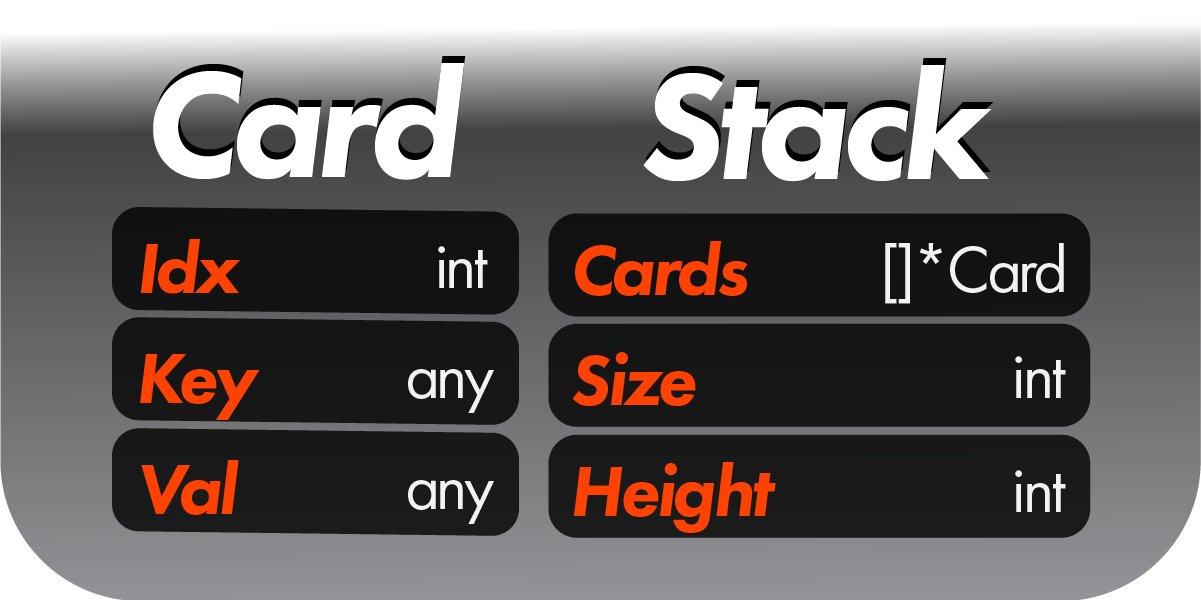
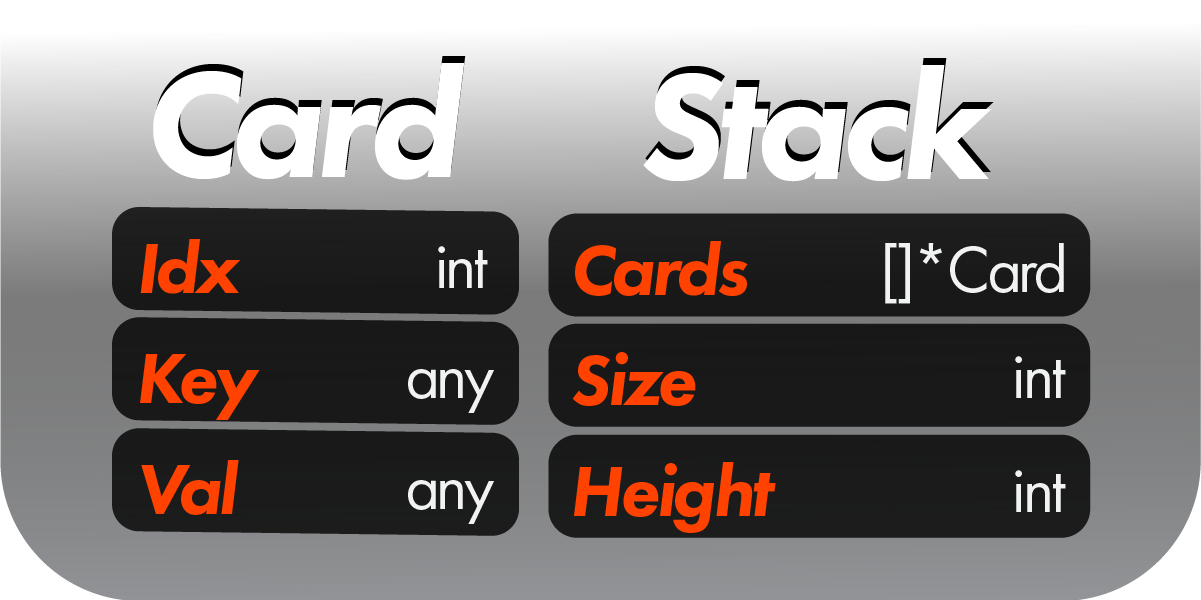
Updated images

Changed region(s): [[0.0, 0.06, 1.0, 0.57]]

diff --git a/README.md b/README.md
@@ -1,6 +1,6 @@
 v1.0.0 — Alpha Release — 10/16/2022 — First working implementation
 
-![Banner](images/gostack_Smaller.png)
+![Banner](images/gostack_SmallerTransparent.png)
 
  *"The purpose of abstraction is not to be vague, but to create a new semantic level in which one can be absolutely precise." - Edsger W. Dijkstra*
 

diff --git a/documentation/faq.md b/documentation/faq.md
@@ -1,4 +1,4 @@
-![Banner](../images/gostack_Smaller.png)
+![Banner](../images/gostack_SmallerTransparent.png)
 
 <h1>Frequently Asked Questions</h1>
 

diff --git a/documentation/enumsAPI.md b/documentation/enumsAPI.md
@@ -1,4 +1,4 @@
-![Banner](../images/gostack_Smaller.png)
+![Banner](../images/gostack_SmallerTransparent.png)
 
 <h1>Enumerator Documentation</h1>
 

diff --git a/documentation/timeline.md b/documentation/timeline.md
@@ -1,4 +1,4 @@
-![Banner](../images/gostack_Smaller.png)
+![Banner](../images/gostack_SmallerTransparent.png)
 
  6/18/2022 — Development begins
 

diff --git a/documentation/structsAPI.md b/documentation/structsAPI.md
@@ -1,4 +1,4 @@
-![Banner](../images/gostack_Smaller.png)
+![Banner](../images/gostack_SmallerTransparent.png)
 
 <h1>Structs Documentation</h1>
 

diff --git a/documentation/meta.md b/documentation/meta.md
@@ -1,4 +1,4 @@
-![Banner](../images/gostack_Smaller.png)
+![Banner](../images/gostack_SmallerTransparent.png)
 
 <h1>Meta Documentation</h1>
 

diff --git a/documentation/metaAPI.md b/documentation/metaAPI.md
@@ -1,4 +1,4 @@
-![Banner](../images/gostack_Smaller.png)
+![Banner](../images/gostack_SmallerTransparent.png)
 
 <h1>Meta Documentation</h1>
 

diff --git a/documentation/installationTutorial.md b/documentation/installationTutorial.md
@@ -1,4 +1,4 @@
-![Banner](../images/gostack_Smaller.png)
+![Banner](../images/gostack_SmallerTransparent.png)
 
  <h1>Installation</h1>
 

diff --git a/documentation/introduction.md b/documentation/introduction.md
@@ -1,4 +1,4 @@
-![Banner](../images/gostack_Smaller.png)
+![Banner](../images/gostack_SmallerTransparent.png)
 
 <h1>Introduction</h1>
 

diff --git a/documentation/benchmark.md b/documentation/benchmark.md
@@ -1,4 +1,4 @@
-![Banner](../images/gostack_Smaller.png)
+![Banner](../images/gostack_SmallerTransparent.png)
 
 <h1>Benchmarks</h1>
 

diff --git a/documentation/functionsAPI.md b/documentation/functionsAPI.md
@@ -1,4 +1,4 @@
-![Banner](../images/gostack_Smaller.png)
+![Banner](../images/gostack_SmallerTransparent.png)
 
  <h1>Functions</h1>
 

diff --git a/documentation/overview.md b/documentation/overview.md
@@ -1,4 +1,4 @@
-![Banner](../images/gostack_Smaller.png)
+![Banner](../images/gostack_SmallerTransparent.png)
 
  <h1>Overview</h1>
 
